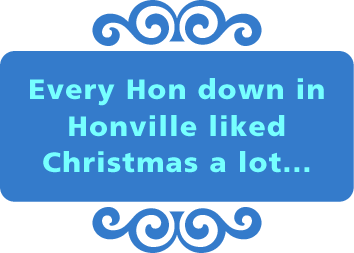
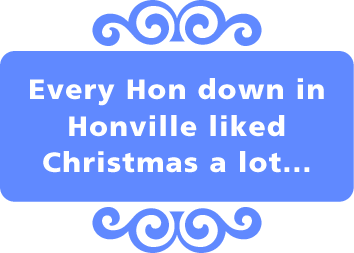
quickened a couple early transitions

diff --git a/js/main.js b/js/main.js
@@ -462,7 +462,7 @@ window.onload = function() {
 			{id:document.getElementById("lawn-ornaments"), start:2.73, end:2.83, x: 0, y:-380, type:"translate"},
 			
 			{id:sections[1], start: 2.1, end: 2.16, x: 1, y: 0, type:"opacity", fade: "in"},
-			{id:sections[1], start: 2.9, end: 2.99, x: -1.1, y: 0, type:"opacity", fade: "out"},
+			{id:sections[1], start: 2.95, end: 2.99, x: -1.1, y: 0, type:"opacity", fade: "out"},
 			
 			{id:narrationFiles[0], start: 2.01, end: 2.2, x: 1, y: 0, type:"narration"}, // For type narration or music, x controls where volume goes to
 			{id:narrationFiles[1], start: 2.55, end: 2.6, x: 1, y: 0, type:"narration"}
@@ -475,12 +475,12 @@ window.onload = function() {
 			{id:document.getElementById("s3t1"), start: 3.5, end: 3.55, x: -1.1, y: 0, type:"opacity"},
 
 			{id:sections[2], start: 3.2, end: 3.35, x: 1, y: 0, type:"opacity", fade: "in"},
-			{id:sections[2], start: 3.9, end: 3.99, x: -1.1, y: 0, type:"opacity", fade: "out"},
+			{id:sections[2], start: 3.95, end: 3.99, x: -1.1, y: 0, type:"opacity", fade: "out"},
 
 			{id:narrationFiles[2], start: 3.01, end: 3.2, x: 1, y: 0, type:"narration"}, 
 			
 			{id:musicFiles[1], start: 3.2, end: 3.6, x: 0.4, y: 0, type:"music"}, // on second call of same music file, fadeout is triggered
-			{id:musicFiles[1], start: 3.8, end: 3.99, x: 0.4, y: 0, type:"music"} 
+			{id:musicFiles[1], start: 3.95, end: 3.99, x: 0.4, y: 0, type:"music"} 
 		],
 		
 		[  // scene 4	
@@ -499,12 +499,12 @@ window.onload = function() {
 			{id:document.getElementById("bg-test"), start: 4.4, end: 4.6, x: -1000, y: 0, type:"translate"},
 
 			{id:sections[3], start: 4.2, end: 4.28, x: 1, y: 0, type:"opacity", fade: "in"},
-			{id:sections[3], start: 4.9, end: 4.99, x: -1.1, y: 0, type:"opacity", fade: "out"},
+			{id:sections[3], start: 4.95, end: 4.99, x: -1.1, y: 0, type:"opacity", fade: "out"},
 
 			{id:narrationFiles[3], start: 4.01, end: 4.2, x: 1, y: 0, type:"narration"},
 			
 			{id:musicFiles[2], start: 4.2, end: 4.4, x: 0.5, y: 0, type:"music"},
-			{id:musicFiles[2], start: 4.8, end: 4.99, x: 0.5, y: 0, type:"music"} 
+			{id:musicFiles[2], start: 4.95, end: 4.99, x: 0.5, y: 0, type:"music"} 
 		], 
 		
 		[  // scene 5

diff --git a/css/main.css b/css/main.css
@@ -115,8 +115,8 @@ audio { display: none; }
 
 /* ===== Body Colors ===== */
 
-.color1 { background-color: #347BCB;; }
-.color2 { background-color: #B5C7EE; }
+.color1 { background-color: #5F89F7; }
+.color2 { background-color: #6089FF; }
 .color3 { background-color: #648578; }
 .color4 { background-color: #057038; }
 .color5 { background-color: #0090FF; }
